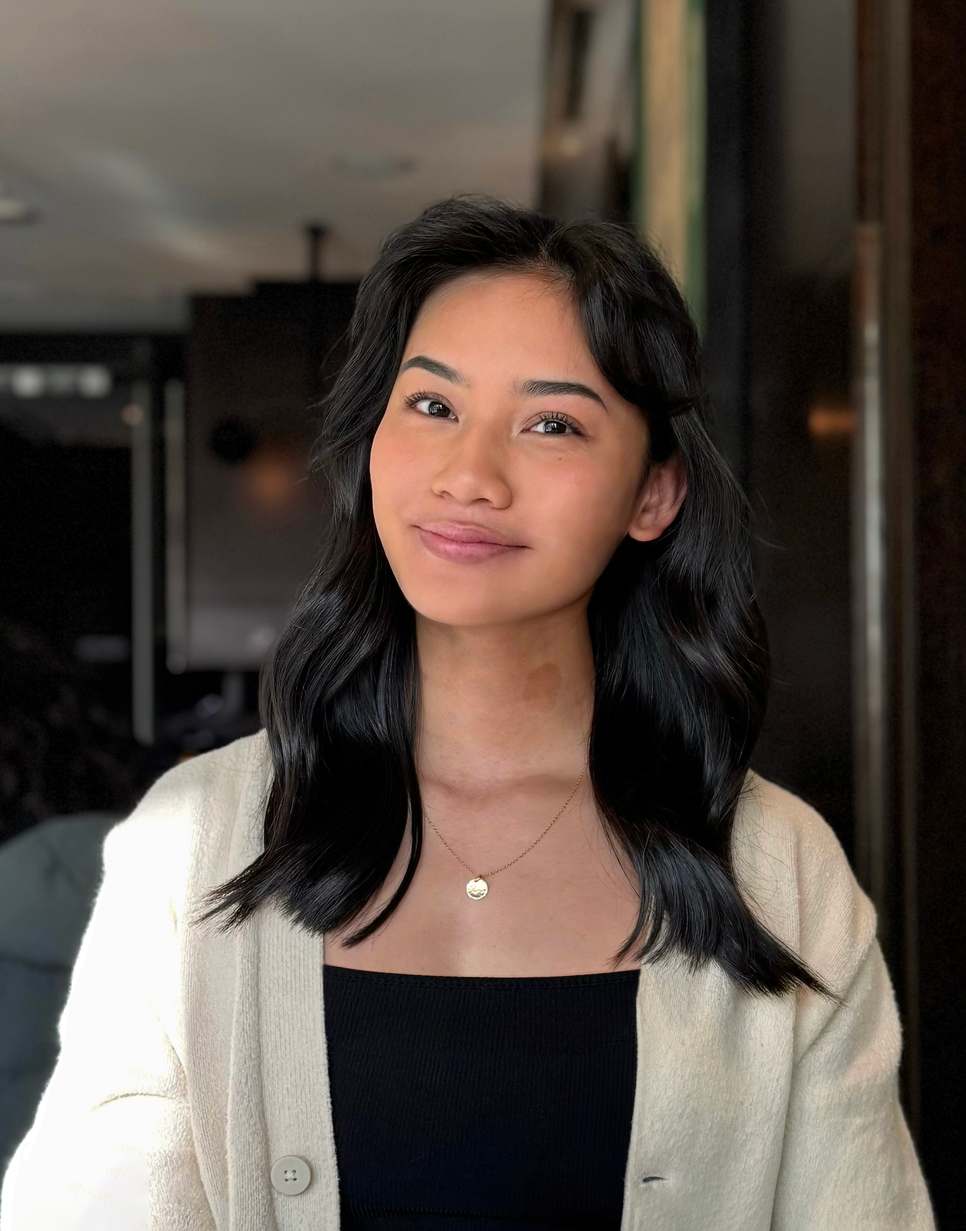
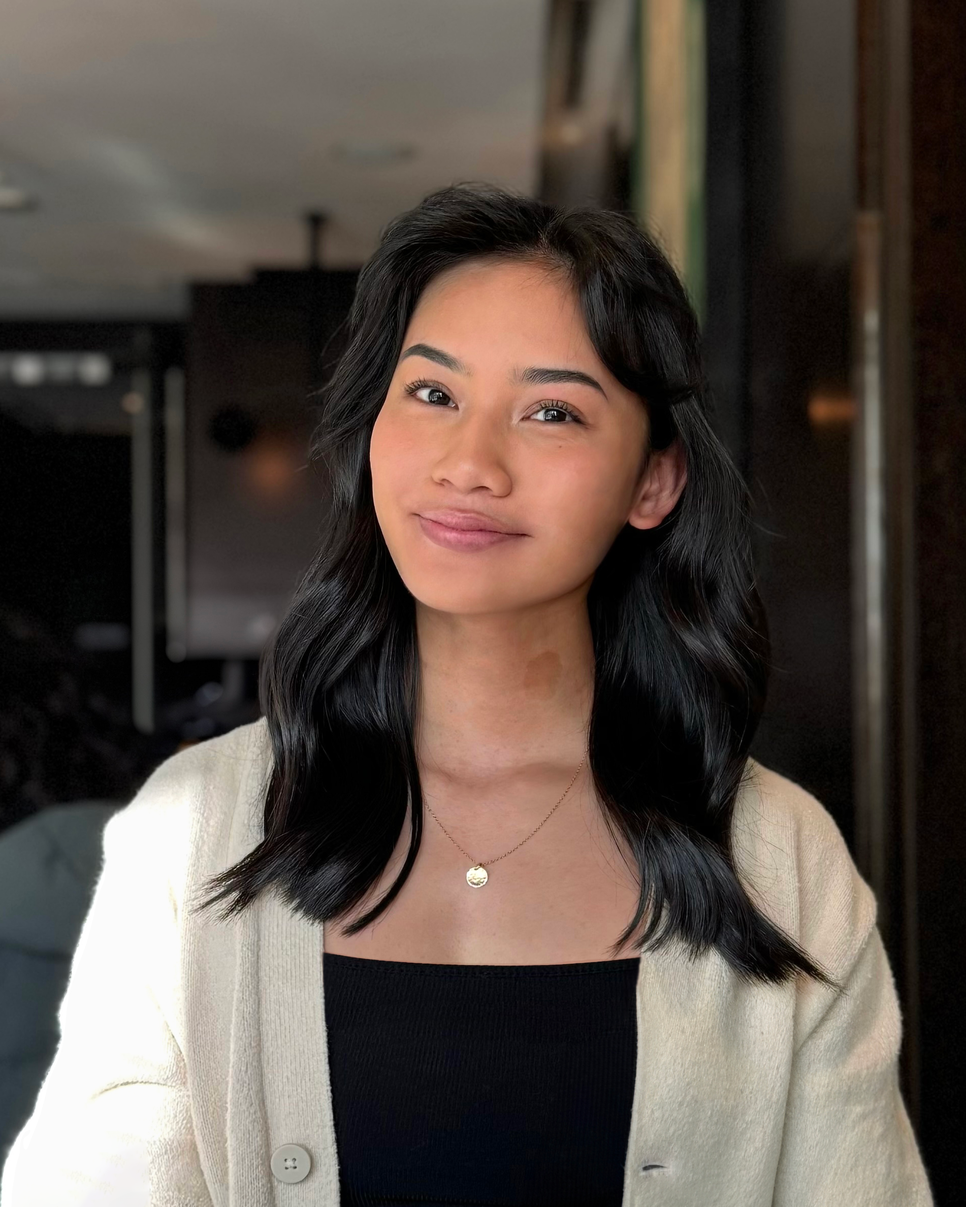
Updated bg for index and about

diff --git a/about.html b/about.html
@@ -71,6 +71,9 @@
     <!-- Canonical -->
     <link rel=“canonical” href="https://isabellelouie.com/about">
 
+    <script src="https://cdnjs.cloudflare.com/ajax/libs/font-awesome/5.15.3/css/all.min.css"></script>
+    <link rel="stylesheet" href="https://cdnjs.cloudflare.com/ajax/libs/font-awesome/5.15.3/css/all.min.css">
+
     <title>About – Isabelle Louie</title>
 </head>
 
@@ -91,20 +94,29 @@
     </nav>
 
 
+
     <section class="section grid bio one two">
-        <div>
+        <!-- <div>
             <picture>
                 <source media="(min-width:48rem)" srcset="img/headshot-xl.png">
-                <!-- <source media="(min-width:48rem)" srcset="img/headshot-lg.png"> -->
-                <img src="img/headshot.png" width="1972" height="1973" alt="Headshot photo of Isabelle Louie"
-                    class="headshot">
-            </picture>
+                 <source media="(min-width:48rem)" srcset="img/headshot-lg.png"> -->
+        <!-- <img src="img/headshot.png" width="1972" height="1973" alt="Headshot photo of Isabelle Louie" class="headshot">
+        </picture> -->
 
-            <!-- <picture>
+        <!-- <picture>
                 <img src="img/powerlifting.jpg" width="3005" height="3757"
                     alt="Photo of Isabelle Louie competing at the North American Powerlifting Championships"
                     class="headshot">
-            </picture> -->
+            </picture> 
+        </div> -->
+
+        <div id="slider">
+            <ul id="slideWrap">
+                <li><img src="img/headshot-lg.png" alt=""></li>
+                <li><img src="img/powerlifting.jpg" alt=""></li>
+            </ul>
+            <a id="prev" href="#">&#8810;</a>
+            <a id="next" href="#">&#8811;</a>
         </div>
 
         <div class="biography">
@@ -116,18 +128,7 @@
                 enhance everyday experiences. As a goal-oriented individual myself, I am driven by my love of
                 <strong>continual learning, embracing curiosity,</strong> and <strong>helping others achieve their
                     goals</strong>.
-            </p>
-
-            <p> I am currently in my final semester at Simon Fraser University, completing a joint major in Business and
-                Interactive Arts and Technology. I am eagerly <strong>seeking opportunities in User Experience Research
-                    for Summer 2024</strong>.
-            </p>
-
-            <p> Outside of school and work, I compete in powerlifting and represent Team Canada internationally. Most
-                recently, I earned four silver medals for Canada at the 2023 North American Powerlifting Championships
-                in the Cayman Islands!
             </p> -->
-
 
             <p> As a <strong>T-shaped individual</strong>, I specialize in mixed methods research with a wide array of
                 skills in experience design, business strategy, communications, and marketing.
@@ -150,12 +151,144 @@
                 in the Cayman Islands!
             </p>
 
-
         </div>
     </section>
 
 
-    <section class="section grid bio one two">
+
+
+
+  
+    <style>
+        
+        #slider {
+            position: relative;
+            width: 400px;
+            height: 500px;
+
+            overflow: hidden;
+            box-shadow: 0 0 30px rgba(0, 0, 0, 0.3);
+        }
+
+        #slider ul {
+            position: relative;
+            list-style: none;
+            height: 100%;
+            width: 10000%;
+            padding: 0;
+            margin: 0;
+            transition: all 750ms ease;
+            left: 0;
+        }
+
+        #slider ul li {
+            position: relative;
+            height: 100%;
+
+            float: left;
+        }
+
+        #slider ul li img {
+            width: 400px;
+            height: 500px;
+        }
+
+        #slider #prev,
+        #slider #next {
+            width: 50px;
+            line-height: 50px;
+            border-radius: 50%;
+            font-size: 1.5rem;
+            text-shadow: 0 0 20px rgba(0, 0, 0, 0.6);
+            text-align: center;
+            color: white;
+            text-decoration: none;
+            position: absolute;
+            top: 50%;
+            transform: translateY(-50%);
+            transition: all 150ms ease;
+        }
+
+        #slider #prev:hover,
+        #slider #next:hover {
+            background-color: rgba(0, 0, 0, 0.5);
+            text-shadow: 0;
+        }
+
+        #slider #prev {
+            left: 10px;
+        }
+
+        #slider #next {
+            right: 10px;
+        }
+    </style>
+
+
+    <script>
+        var responsiveSlider = function () {
+            var slider = document.getElementById("slider");
+            var sliderWidth = slider.offsetWidth;
+            var slideList = document.getElementById("slideWrap");
+            var count = 1;
+            var items = slideList.querySelectorAll("li").length;
+            var prev = document.getElementById("prev");
+            var next = document.getElementById("next");
+
+            window.addEventListener('resize', function () {
+                sliderWidth = slider.offsetWidth;
+            });
+
+            var prevSlide = function () {
+                if (count > 1) {
+                    count = count - 2;
+                    slideList.style.left = "-" + count * sliderWidth + "px";
+                    count++;
+                }
+                else if (count = 1) {
+                    count = items - 1;
+                    slideList.style.left = "-" + count * sliderWidth + "px";
+                    count++;
+                }
+            };
+
+            var nextSlide = function () {
+                if (count < items) {
+                    slideList.style.left = "-" + count * sliderWidth + "px";
+                    count++;
+                }
+                else if (count = items) {
+                    slideList.style.left = "0px";
+                    count = 1;
+                }
+            };
+
+            next.addEventListener("click", function () {
+                nextSlide();
+            });
+
+            prev.addEventListener("click", function () {
+                prevSlide();
+            });
+
+            setInterval(function () {
+                nextSlide()
+            }, 5000);
+
+        };
+
+        window.onload = function () {
+            responsiveSlider();
+        }
+    </script>
+
+
+
+
+
+
+
+    <!-- <section class="section grid bio one two">
         <div class="add-pad">
             <picture>
                 <img src="img/powerlifting.jpg" width="3005" height="3757"
@@ -187,7 +320,7 @@
                     target="_blank">Backstreet Boys</a>.
             </p>
         </div>
-    </section>
+    </section> -->
 
 
 

diff --git a/css/main.css b/css/main.css
@@ -14,8 +14,8 @@ body {
 
 .dotted {
     --dot-bg: white;
-    --dot-color: #dddddda2;
-    --dot-size: 1.75px;
+    --dot-color: #dddddddd;
+    --dot-size: 2px;
     --dot-space: 24px;
     background:
         linear-gradient(90deg, var(--dot-bg) calc(var(--dot-space) - var(--dot-size)), transparent 1%) center / var(--dot-space) var(--dot-space),
@@ -378,7 +378,8 @@ nav.navbar {
 }
 
 .navbar .logo {
-    font-size: 1rem;
+    padding-top: 0.15rem;
+    font-size: 0.95rem;
     border: 0;
     text-align: left;
     display: block;
@@ -1052,24 +1053,3 @@ h2.hobbies {
 .redcircle-link:visited {
     color: #ea404d;
 }
-
-
-/* @font-face {
-    font-family: "Sequel Sans Body";
-    src: url('../fonts/sequel-sans/sequel-sans-body.eot');
-    src: url('../fonts/sequel-sans/sequel-sans-body.eot') format('embedded-opentype'),
-        url('../fonts/sequel-sans/ttf/sequel-sans-body.ttf') format('truetype');
-    font-weight: 300;
-    font-weight: normal;
-    font-style: normal;
-}
-
-@font-face {
-    font-family: "Sequel Sans Head";
-    src: url('../fonts/sequel-sans/sequel-sans-head.eot');
-    src: url('../fonts/sequel-sans/sequel-sans-head.eot') format('embedded-opentype'),
-        url('../fonts/sequel-sans/ttf/sequel-sans-head.ttf') format('truetype');
-    font-weight: 300;
-    font-weight: normal;
-    font-style: normal;
-} */

diff --git a/css/grids.css b/css/grids.css
@@ -33,15 +33,16 @@
 
     .home h1 {
         font-weight: 500;
-        font-size: 2.25rem;
+        font-size: 3rem;
         letter-spacing: 0.025rem;
         text-align: center;
         padding-bottom: 0rem;
     }
 
     .home h2 {
-        font-size: 1.5rem;
+        font-size: 2.25rem;
         padding-top: 0;
+        padding-bottom: 0;
     }
 
     .home h3 {
@@ -263,7 +264,7 @@
     }
 
     .home h2 {
-        font-size: 2.75rem;
+        font-size: 2.5rem;
     }
 }
 
@@ -386,13 +387,13 @@
     }
 
     .home h1 {
-        font-size: 4rem;
+        font-size: 3.5rem;
         padding-bottom: 1rem;
         letter-spacing: 0.125rem;
     }
 
     .home h2 {
-        font-size: 3.15rem;
+        font-size: 3rem;
         line-height: 2.75rem;
     }
 
@@ -520,7 +521,7 @@
     }
 
     .home h2 {
-        font-size: 3.5rem;
+        font-size: 3rem;
         padding-bottom: 0;
     }
 

diff --git a/index.html b/index.html
@@ -204,7 +204,7 @@
                         <h2 class="h2-sm">CASE STUDY COMING SOON</h2>
                     </div>
                 </div>
-            </div>
+            </div> 
 
 
 
@@ -239,7 +239,6 @@
 
 
 
-
         <div class="section">
             <h1>communications + marketing</h1>
             <hr class="longline">
@@ -265,6 +264,7 @@
                     </div>
                 </div>
 
+                
 
                 <!-- ====================== SFU SURREY OPEN HOUSE ====================== -->
                 <div>

diff --git a/cv.html b/cv.html
@@ -74,7 +74,7 @@
     <title>Resume – Isabelle Louie</title>
 </head>
 
-<body>
+<body class="dotted">
     <!-- Google Tag Manager (noscript) -->
     <noscript><iframe src="https://www.googletagmanager.com/ns.html?id=GTM-5Z58HBRQ" height="0" width="0"
             style="display:none;visibility:hidden"></iframe></noscript>
